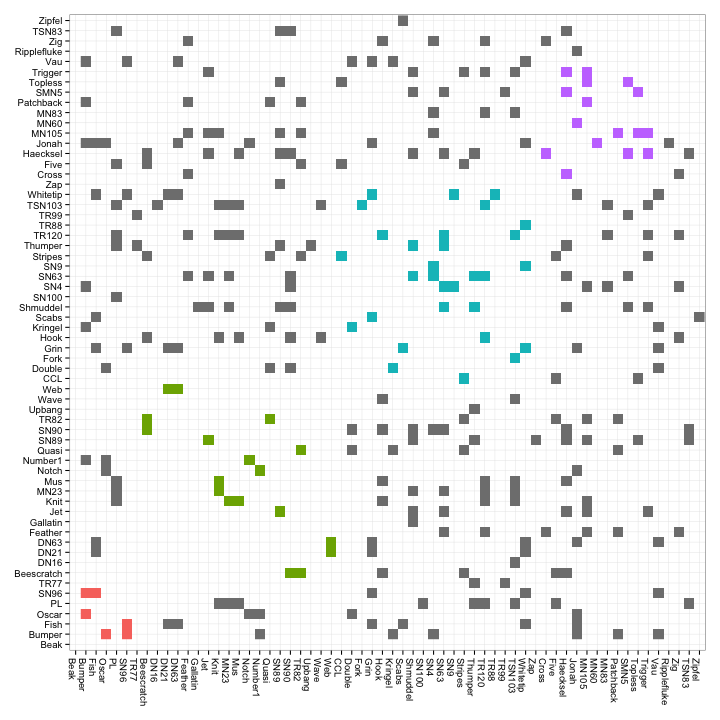
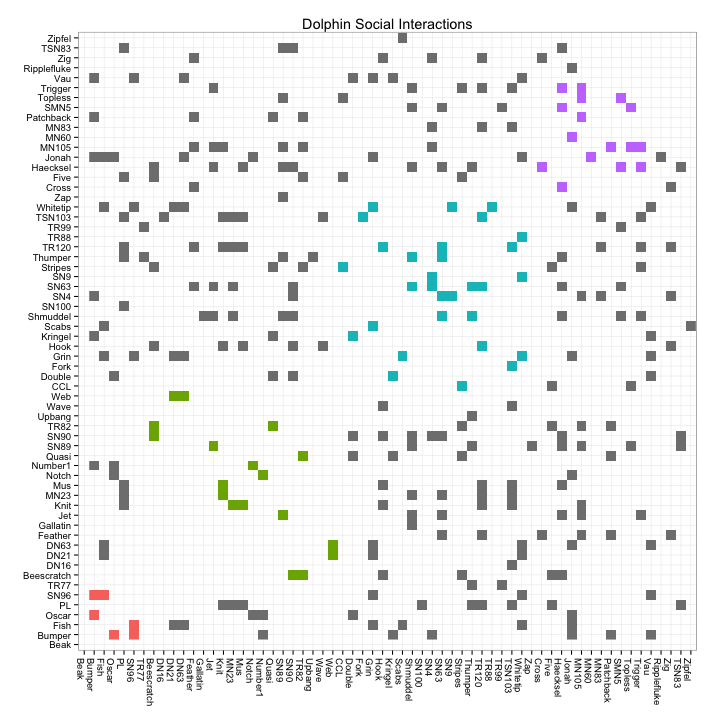
Spelling fixes and added titles.

diff --git a/assignment2.html b/assignment2.html
@@ -4,7 +4,7 @@
 <html xmlns="http://www.w3.org/1999/xhtml" lang="en" xml:lang="en">
 <head>
 <title>Data Visualisation Assignment 2</title>
-<!-- 2015-08-10 Mon 12:36 -->
+<!-- 2015-08-10 Mon 12:47 -->
 <meta  http-equiv="Content-Type" content="text/html;charset=utf-8" />
 <meta  name="generator" content="Org-mode" />
 <meta  name="author" content="Ashley Gillman" />
@@ -144,7 +144,7 @@ for the JavaScript code in this tag.
 <h2 id="sec-1"><span class="section-number-2">1</span> The Dataset</h2>
 <div class="outline-text-2" id="text-1">
 <p>
-The data used in this assignment represents social interractions
+The data used in this assignment represents social interactions
 between 62 dolphins <sup><a id="fnr.1" name="fnr.1" class="footref" href="#fn.1">1</a></sup>. We will explore these interactions
 and investiate whether dolphins form social sub-groups.
 </p>
@@ -239,7 +239,7 @@ plot_data <span style="color: #FF80F4;">&lt;-</span> edge_list %&gt;% mutate(
 <div class="outline-text-2" id="text-5">
 <p>
 An adjacency matrix was selected as it provides a neat and convenient
-method for anaylysing graph interactions. In this plot, both the x and
+method for analysing graph interactions. In this plot, both the x and
 y axes reprisent individual nodes, in this case dolphins. Points
 represent an interaction between two dolphins. Grey points represent
 interactions between dolphins of different communities, whereas
@@ -259,6 +259,7 @@ ggplot(plot_data, aes(x = label.x, y = label.y, fill = group)) +
       <span style="color: #8C8C8C;"># </span><span style="color: #8C8C8C;">make sure that ggplot does not drop unused factor levels</span>
       scale_x_discrete(drop = <span style="color: #66D9EF;">FALSE</span>) +
       scale_y_discrete(drop = <span style="color: #66D9EF;">FALSE</span>) +
+      ggtitle(<span style="color: #EEDC82;">'Dolphin Social Interactions'</span>) +
       theme(
         axis.title.x=element_blank(),
         axis.title.y=element_blank(),
@@ -320,6 +321,9 @@ We now have an effective method to quickly analyse interactions
 within and between communities. The Adjacency matrix here maps
 both distance and hue to node community. The interactions between and
 within communities are visualised using density.
+Note that the lack of legend for the colour was a deliberate decision,
+as the communities were arbitrarily determined using an
+edge-betweenness algorithm.
 </p>
 
 <p>
@@ -353,7 +357,7 @@ ggplot2." Matthew Lincoln (blog), 20 Dec 2014,
 </div></div>
 <div id="postamble" class="status">
 <p class="author">Author: Ashley Gillman</p>
-<p class="date">Created: 2015-08-10 Mon 12:36</p>
+<p class="date">Created: 2015-08-10 Mon 12:47</p>
 <p class="creator"><a href="http://www.gnu.org/software/emacs/">Emacs</a> 25.0.50.1 (<a href="http://orgmode.org">Org</a> mode 8.2.10)</p>
 <p class="validation"><a href="http://validator.w3.org/check?uri=referer">Validate</a></p>
 </div>
